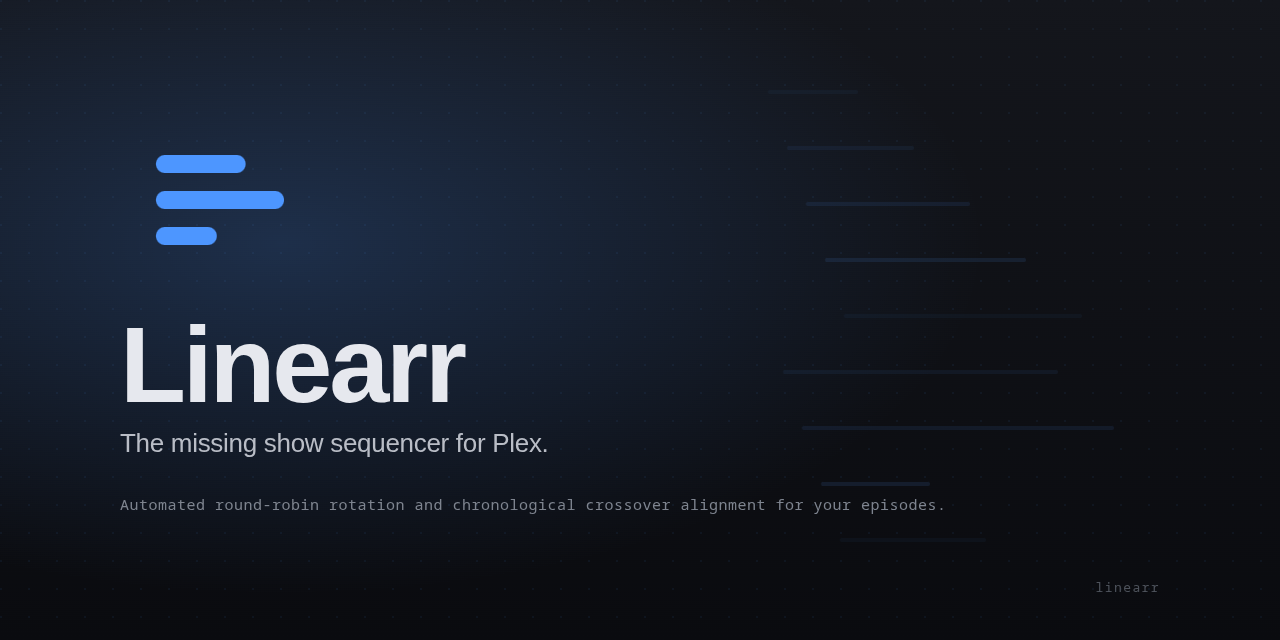
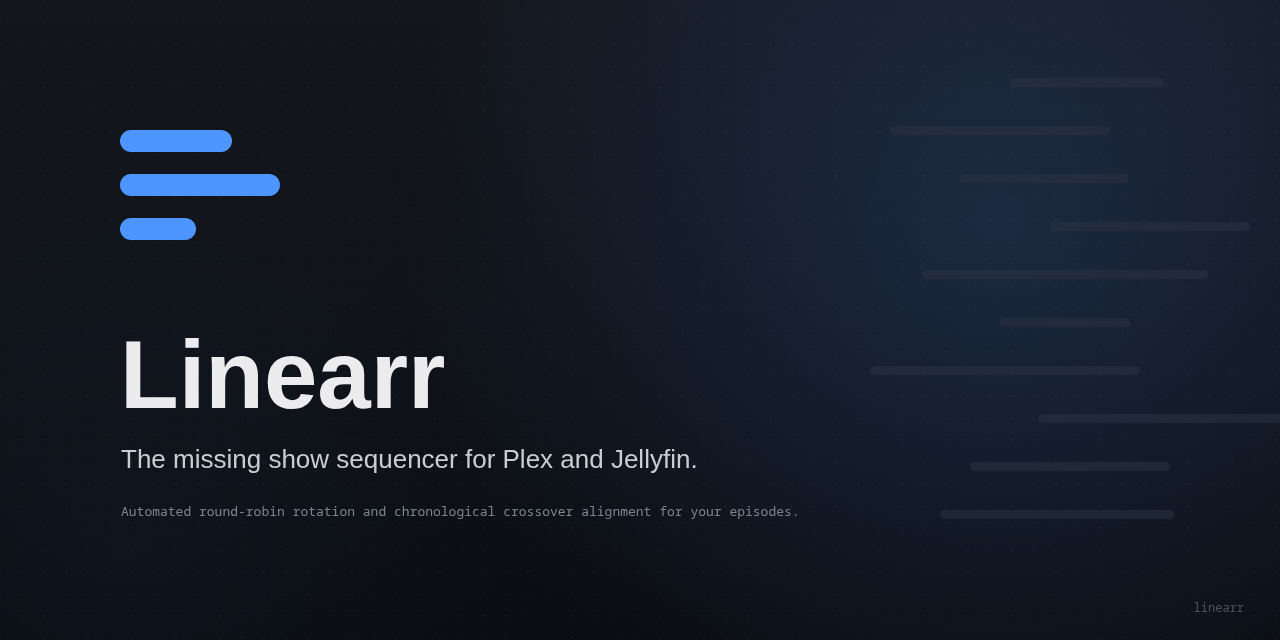
ux: reorder sort mode pills — Rotation, Blocks, Weighted, Air Date, Shuffle
Blocks is a simpler extension of Rotation (same concept, N episodes
instead of 1). Weighted adds per-show asymmetry on top of that.
Air Date and Shuffle break from the rotation paradigm entirely.
The new order reflects increasing conceptual distance from plain rotation.

Also updates images/banner.png.

diff --git a/templates/configure.html b/templates/configure.html
@@ -66,11 +66,6 @@
                    {% if sort_mode == 'rotation' %}checked{% endif %}>
             <span>Rotation</span>
           </label>
-          <label class="pill {% if sort_mode == 'air_date' %}is-active{% endif %}">
-            <input type="radio" name="sort_mode" value="air_date"
-                   {% if sort_mode == 'air_date' %}checked{% endif %}>
-            <span>Air Date</span>
-          </label>
           <label class="pill {% if sort_mode == 'rotation_blocks' %}is-active{% endif %}">
             <input type="radio" name="sort_mode" value="rotation_blocks"
                    {% if sort_mode == 'rotation_blocks' %}checked{% endif %}>
@@ -80,6 +75,11 @@
             <input type="radio" name="sort_mode" value="rotation_weighted"
                    {% if sort_mode == 'rotation_weighted' %}checked{% endif %}>
             <span>Weighted</span>
+          </label>
+          <label class="pill {% if sort_mode == 'air_date' %}is-active{% endif %}">
+            <input type="radio" name="sort_mode" value="air_date"
+                   {% if sort_mode == 'air_date' %}checked{% endif %}>
+            <span>Air Date</span>
           </label>
           <label class="pill {% if sort_mode == 'shuffle_chronological' %}is-active{% endif %}">
             <input type="radio" name="sort_mode" value="shuffle_chronological"

diff --git a/templates/playlist.html b/templates/playlist.html
@@ -87,10 +87,6 @@
               class="pill {% if playlist.sort_mode == 'rotation' %}is-active{% endif %}">
         Rotation
       </button>
-      <button type="submit" name="sort_mode" value="air_date"
-              class="pill {% if playlist.sort_mode == 'air_date' %}is-active{% endif %}">
-        Air Date
-      </button>
       <button type="submit" name="sort_mode" value="rotation_blocks"
               class="pill {% if playlist.sort_mode == 'rotation_blocks' %}is-active{% endif %}">
         Blocks
@@ -98,6 +94,10 @@
       <button type="submit" name="sort_mode" value="rotation_weighted"
               class="pill {% if playlist.sort_mode == 'rotation_weighted' %}is-active{% endif %}">
         Weighted
+      </button>
+      <button type="submit" name="sort_mode" value="air_date"
+              class="pill {% if playlist.sort_mode == 'air_date' %}is-active{% endif %}">
+        Air Date
       </button>
       <button type="submit" name="sort_mode" value="shuffle_chronological"
               class="pill {% if playlist.sort_mode == 'shuffle_chronological' %}is-active{% endif %}">

diff --git a/templates/new_genre.html b/templates/new_genre.html
@@ -52,9 +52,9 @@
       <div class="pill-toggle pill-toggle-5">
         {% for value, label in [
           ('rotation', 'Rotation'),
-          ('air_date', 'Air Date'),
           ('rotation_blocks', 'Blocks'),
           ('rotation_weighted', 'Weighted'),
+          ('air_date', 'Air Date'),
           ('shuffle_chronological', 'Shuffle'),
         ] %}
           <label class="pill {% if prev_sort_mode == value %}is-active{% endif %}">